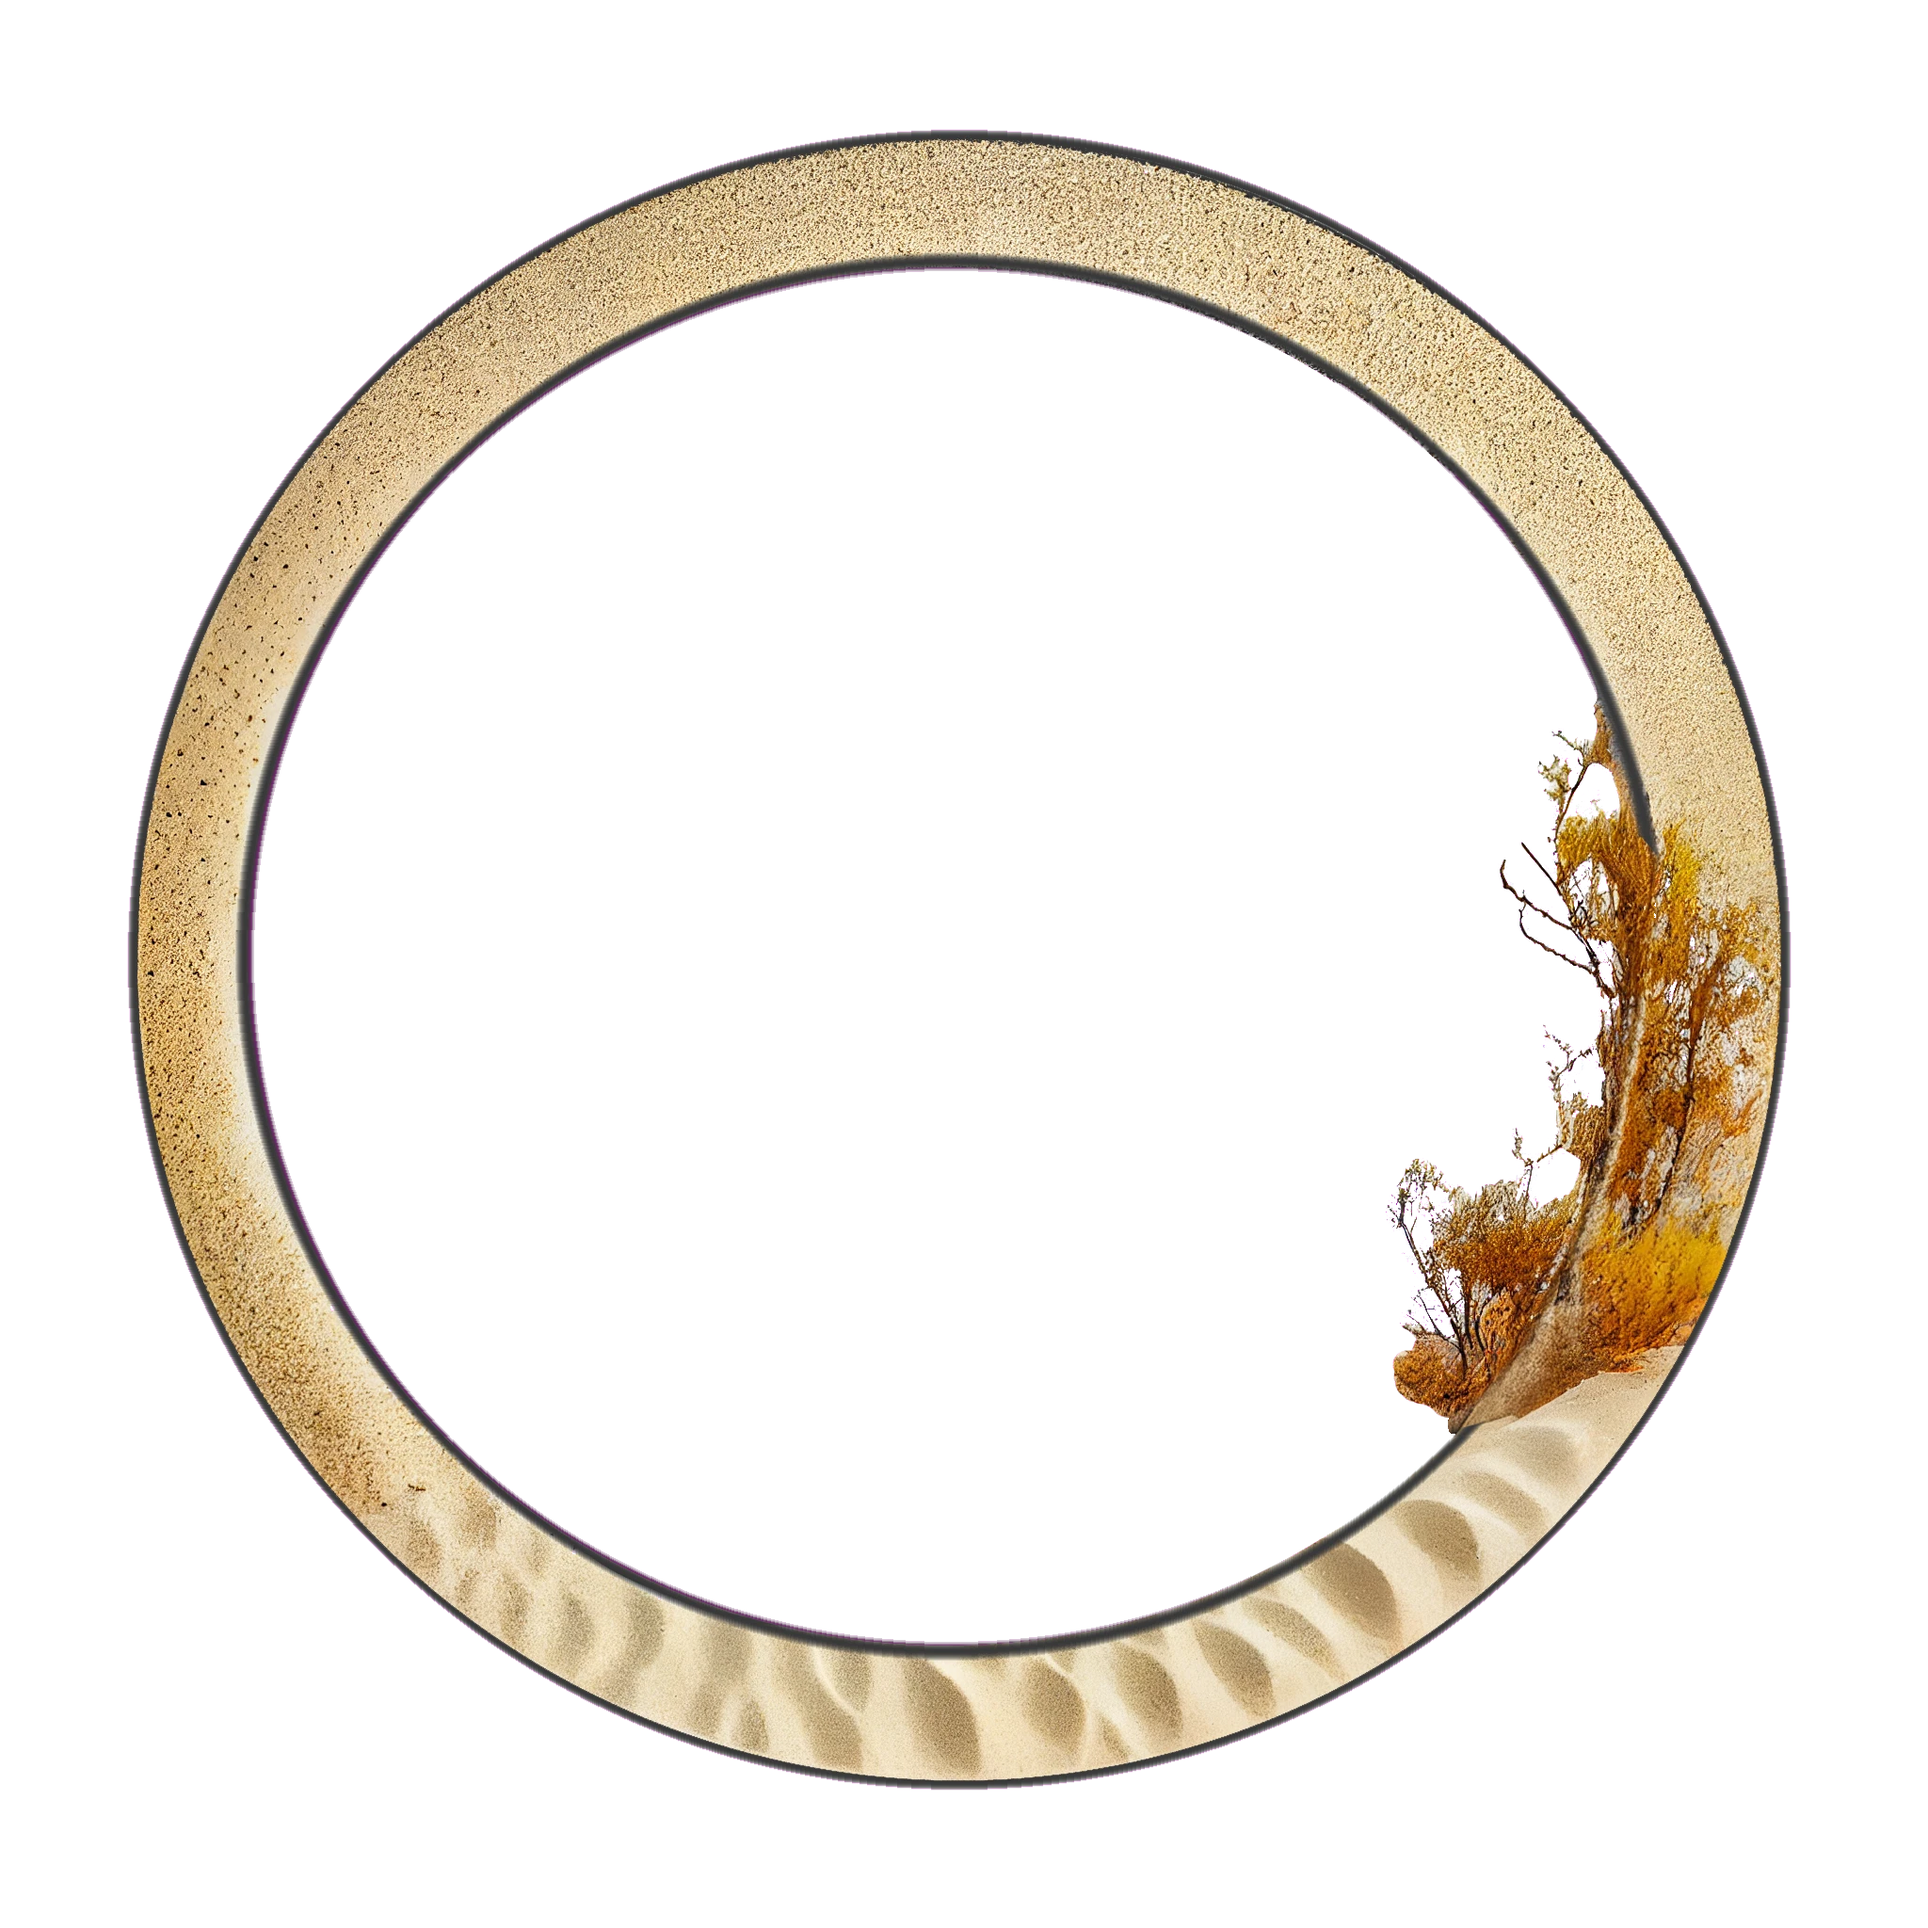
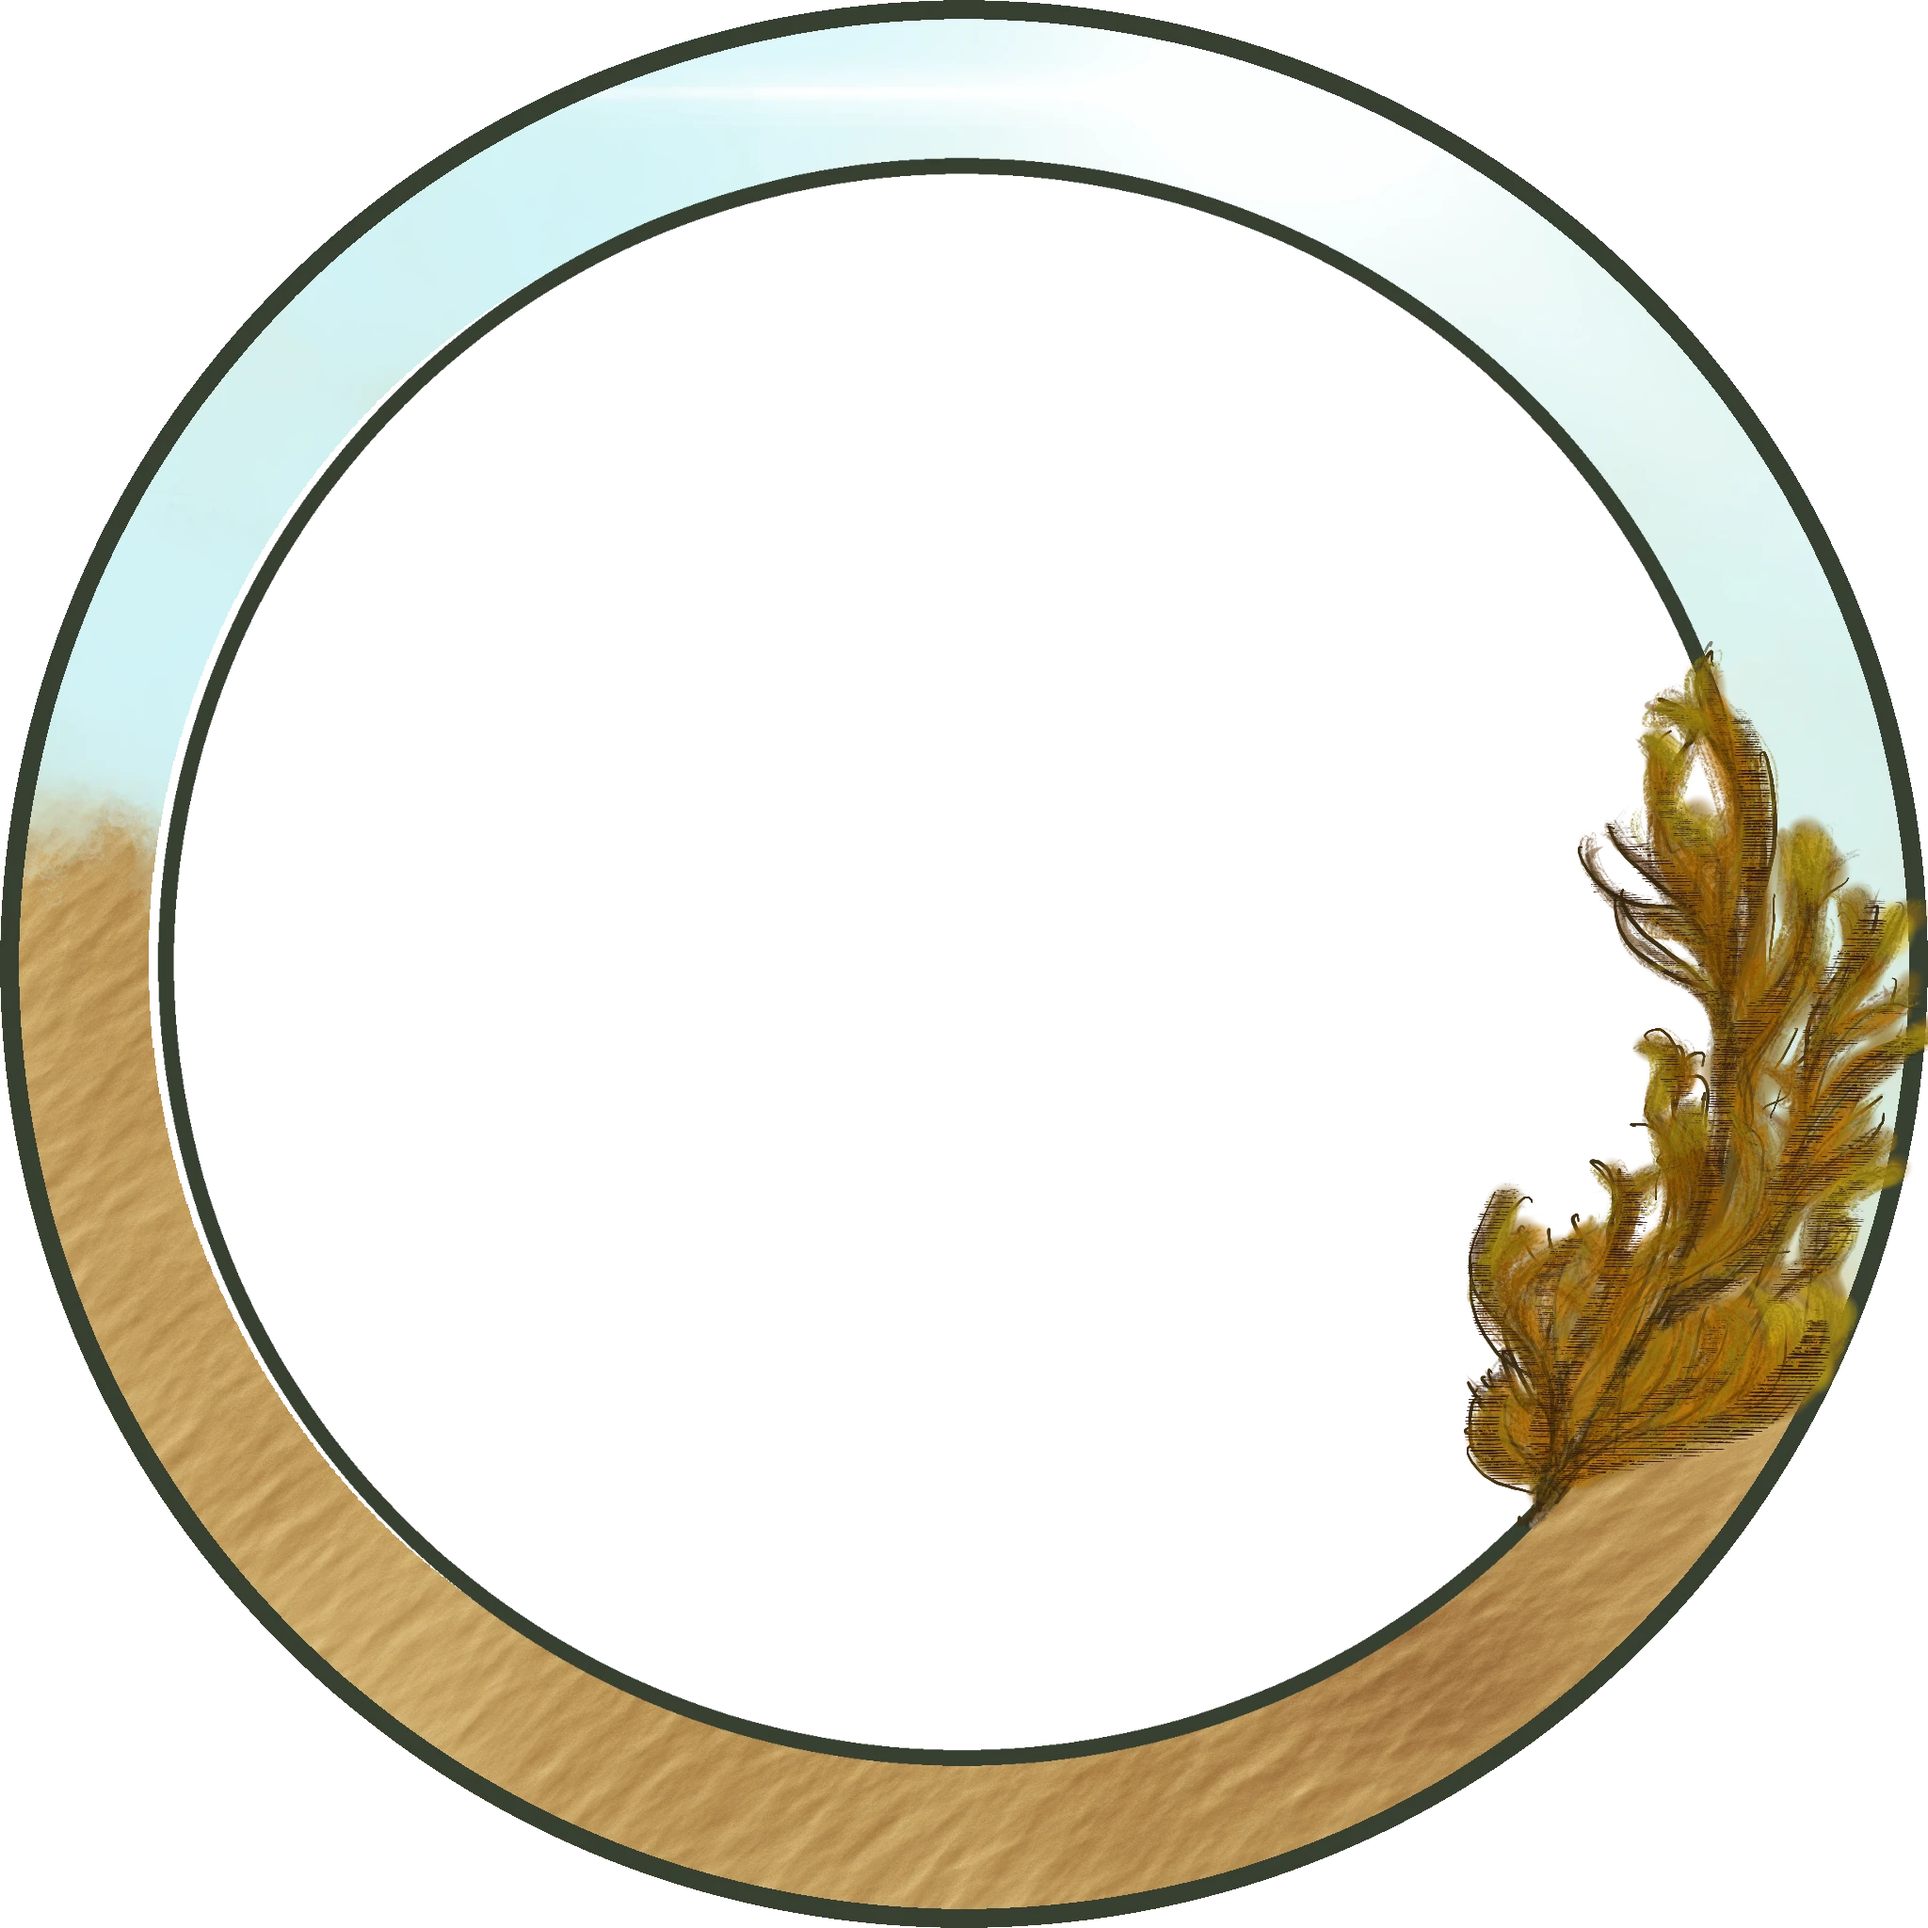
Remove AI-generated content for Foundry AI Content Policy compliance
Foundry's 180-day grace period for the AI Content Policy ends today. Pulled
every AI-generated frame: all of Geekswordsman's contributions and the
AI-generated majority of volfied's, replacing 5 of the latter with
hand-recreated versions and adding a new hand-drawn runes set. The rest of
volfied's AI-generated frames have no replacement yet and are just gone for
now.

Sourced_From_TokenTool is untouched - that's genuine RPTools TokenTool
content under AGPL, just low-res; a proper high-res recreation (to
contribute back upstream) is a separate future effort.

Claude-Session: https://claude.ai/code/session_015KtoCYtJ6bxTrVyVNCnSig

diff --git a/README.md b/README.md
@@ -63,10 +63,6 @@ Contact Info: [gus-uktena](https://github.com/gus-uktena)
 
 "Hello, I've just made some tokens for Band of Blades, which I would like to share with everyone. It includes a blank token so people can create their own variations. Thanks!"
 
-### Sourced from Geekswordsman
-
-Geekswordsman has graciously agreed to include some of his creations in the module. He can usually be found on the Foundry VTT discord server if you need to get in touch with him.
-
 ### Change of ownership and new token frames from volfied
 
 Many thanks to Jay Colson for creating this module. In his absence, I have assumed direction of the project. I have also added some token frames of my own.

diff --git a/CHANGELOG.md b/CHANGELOG.md
@@ -1,5 +1,13 @@
 # Token Frames Changelog
 
+## [1.9.0](https://github.com/yorkshirelandscape/token_frames/tree/1.9.0)
+
+[Full Changelog](https://github.com/yorkshirelandscape/token_frames/compare/1.8.0...1.9.0)
+- Removed AI-generated token frames to comply with Foundry's [AI Content Policy](https://foundryvtt.com/article/ai-policy/)
+- Replaced 5 of volfied's frames with hand-recreated versions
+- Added a new hand-drawn runes frame set from volfied
+- Removed Geekswordsman's frames (AI-assisted)
+
 ## [1.8.0](https://github.com/yorkshirelandscape/token_frames/tree/1.8.0)
 
 [Full Changelog](https://github.com/yorkshirelandscape/token_frames/compare/1.7.0...1.8.0)
